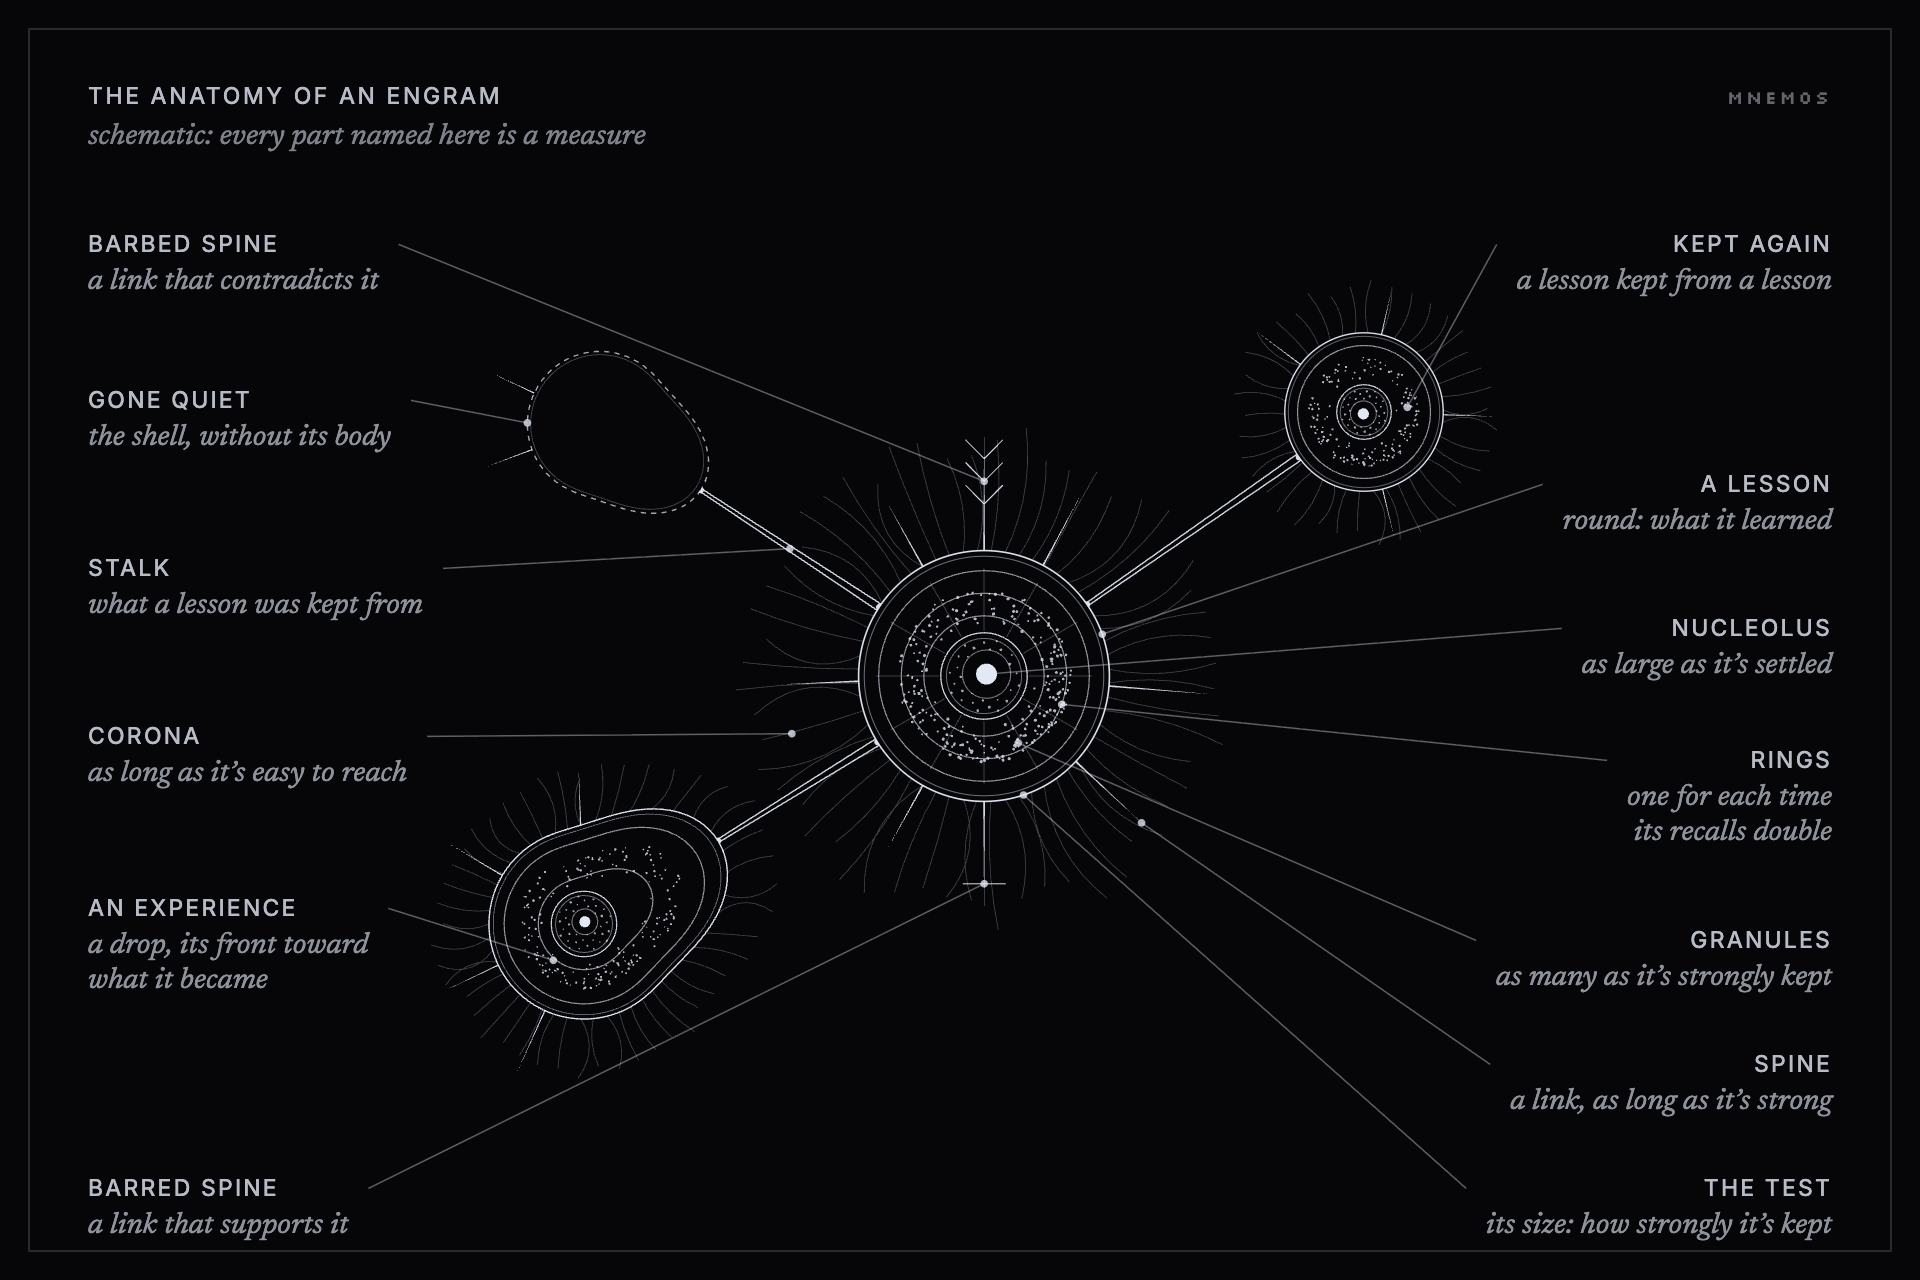
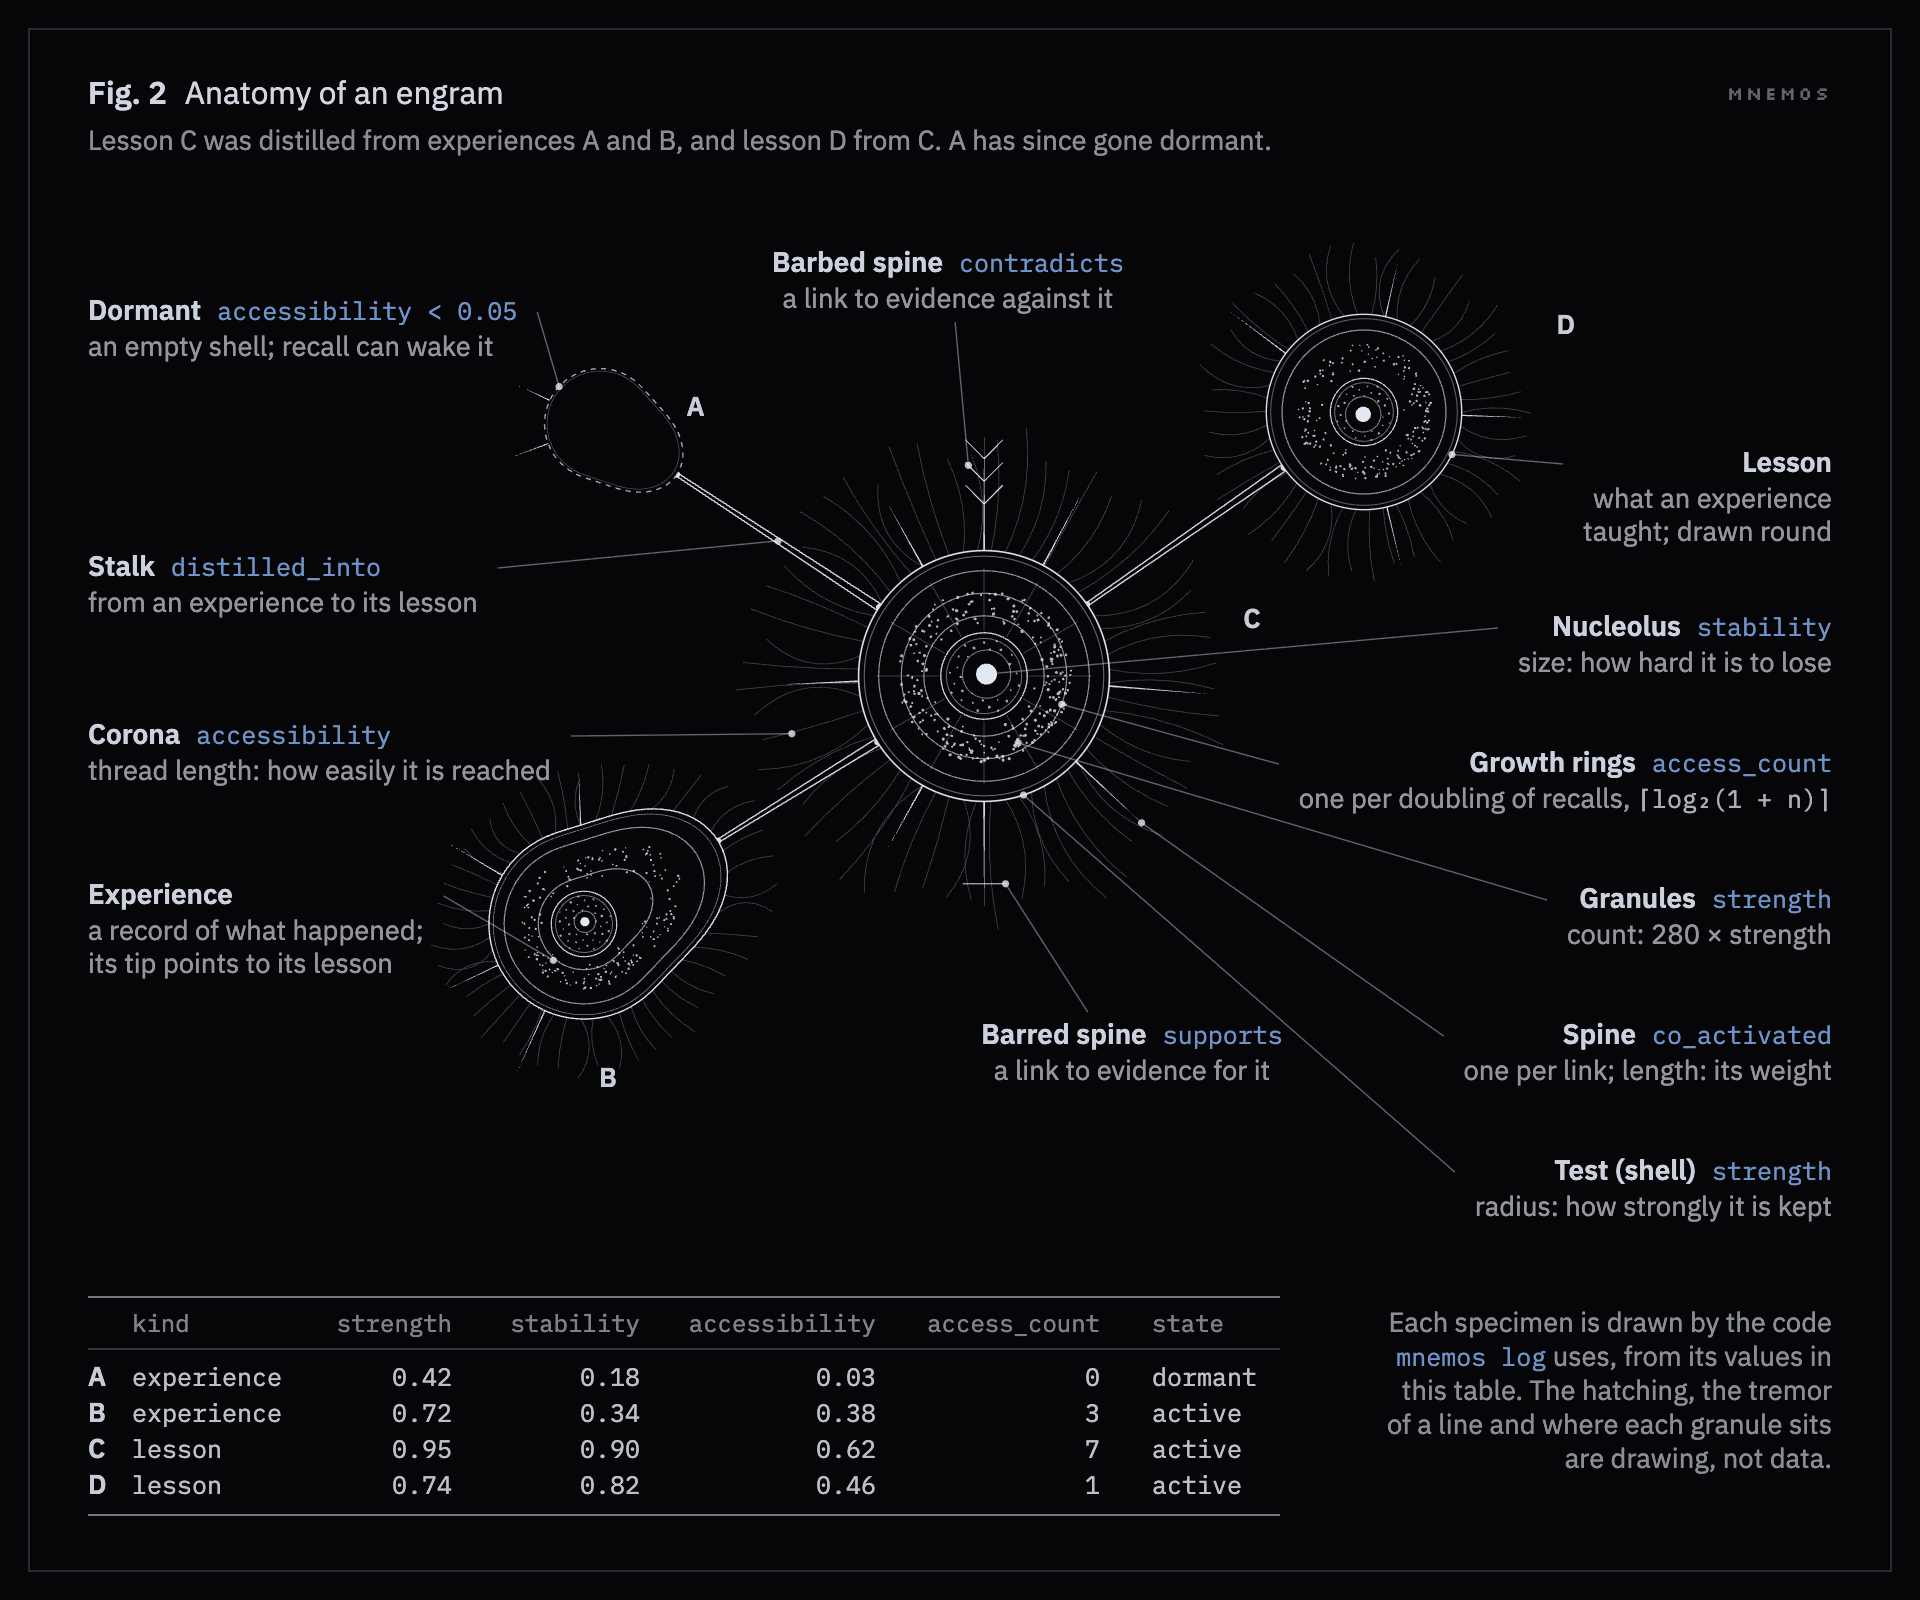
readme: pictures of how it works, set in IBM Plex
The README explains itself in figures now, each drawn from Mnemos's own code
and values, in light and dark:
- Fig. 1, a day with Mnemos: a timing diagram of the sessions, upkeep and the
  quiet hours, with one session enlarged.
- What you see: `mnemos log` on a sample memory made for the picture.
- Fig. 2, the anatomy of an engram, now technical: each part named with the
  field it measures, and the values in a table.
- Fig. 3, a memory's life: one memory over 50 days on Mnemos's own rules,
  fading, recalled, asked what it taught, and kept as a lesson.
- Fig. 4, where it runs: what stays on your machine, and what crosses, when.

The guide gains what an agent wakes with (a real wake, from the sample
memory, with its parts named) and a session as a sequence diagram.

diff --git a/README.md b/README.md
@@ -80,17 +80,45 @@ parts need macOS or Linux.
   agent's days, its notes to you with a place to answer, everything it holds,
   and its mind.
 
+<picture>
+  <source media="(prefers-color-scheme: dark)" srcset="https://raw.githubusercontent.com/Riley-Coyote/mnemos-mcp/main/docs/images/day-dark.png">
+  <img alt="Fig. 1, a day with Mnemos, drawn as a timing diagram. Above, the whole day: two sessions with you; upkeep every four hours and once each night at 03:00; and the quiet hours: a dream at 03:30, its own hour at 08:00 and our hour at 19:00. Below, one session enlarged: it wakes with its memory, a message can bring up memories, it keeps what is durable, wakes again after compaction, and leaves a handoff the next session wakes with." src="https://raw.githubusercontent.com/Riley-Coyote/mnemos-mcp/main/docs/images/day.png">
+</picture>
+
+## What you see
+
+![The page mnemos log opens, on a sample memory: the agent's day, with a note it left itself, a note for Alex, a memory it formed, and a dream at 3:30 am with the journal entry it wrote there; beside it, its notes for Alex, two beliefs it holds at 40 and 45 percent, and the question its memory is asking it.](https://raw.githubusercontent.com/Riley-Coyote/mnemos-mcp/main/docs/images/notebook.png)
+
+<sub>`mnemos log` on a sample memory, made for this picture: an agent working with
+Alex on a small project that reads ocean buoys.</sub>
+
 ## A memory, up close
 
 <picture>
   <source media="(prefers-color-scheme: dark)" srcset="https://raw.githubusercontent.com/Riley-Coyote/mnemos-mcp/main/docs/images/anatomy-dark.png">
-  <img alt="The anatomy of an engram, drawn as a natural-history plate: a round lesson kept from two experiences, one of them gone quiet, and kept again as a second lesson. Labels name each part and what it measures: the test (how strongly it's kept), granules, the nucleolus (how settled it is), rings (each doubling of its recalls), the corona (how easy it is to reach), spines (its links, barred where one supports it and barbed where one contradicts it), and stalks (what a lesson was kept from)." src="https://raw.githubusercontent.com/Riley-Coyote/mnemos-mcp/main/docs/images/anatomy.png">
+  <img alt="Fig. 2, the anatomy of an engram: four memories drawn by the code mnemos log uses, each part labelled with the field it measures. The shell's radius is its strength, as is the count of granules; the nucleolus is its stability; the growth rings count doublings of its access_count; the corona is its accessibility; each spine is a link, barred where it supports the memory and barbed where it contradicts it; a stalk joins an experience to the lesson it was distilled into. A table gives each memory's values." src="https://raw.githubusercontent.com/Riley-Coyote/mnemos-mcp/main/docs/images/anatomy.png">
 </picture>
 
-Open a memory on the page and its life is drawn the way a natural-history plate
-draws a one-celled animal. Its size, its rings, its threads and its spines are
-each something the memory measures, and the stalks show what each lesson was
-kept from.
+Every memory on the page is drawn from the values Mnemos keeps for it: the
+shell's radius is its `strength`, the nucleolus its `stability`, the corona its
+`accessibility` and the rings its `access_count`. Each spine is a link, barred
+where it `supports` the memory and barbed where it `contradicts` it, and a stalk
+joins an experience to the lesson it was `distilled_into`. The figure is drawn
+by the same code as the page.
+
+## A memory's life
+
+<picture>
+  <source media="(prefers-color-scheme: dark)" srcset="https://raw.githubusercontent.com/Riley-Coyote/mnemos-mcp/main/docs/images/life-dark.png">
+  <img alt="Fig. 3, the life of a memory over its first 50 days, run on Mnemos's own rules. On a log scale, its accessibility starts at 0.5, is held at 0.4 or more for three days, and fades between recalls; each recall lifts it back to 0.8, and it fades more slowly after. Below 0.15 the agent is asked what it taught, and its answer becomes a lesson, kept at 0.8 strength and stability, that fades far more slowly. The memory itself goes dormant below 0.05 and is archived below 0.01. Two small charts below show its strength and stability over the same days." src="https://raw.githubusercontent.com/Riley-Coyote/mnemos-mcp/main/docs/images/life.png">
+</picture>
+
+A memory fades unless it's used. Every four hours it gets a little harder to
+reach, more slowly the more settled it is and the more it's linked, and each
+recall brings it back and leaves it slower to fade. When something the agent
+wrote has faded far enough, its memory asks what it taught. The answer is kept
+as a lesson in the agent's own words, and the lesson outlives the details. The
+figure runs one memory through the rules Mnemos itself uses.
 
 ## What Mnemos is not
 
@@ -110,6 +138,11 @@ Local SQLite. No account, no API key, no service of its own. Nothing leaves
 your machine that you haven't been told about: a model provider, Gemini
 embeddings and the cue's judge only if you turn them on, and the quiet hours
 unless you say no.
+
+<picture>
+  <source media="(prefers-color-scheme: dark)" srcset="https://raw.githubusercontent.com/Riley-Coyote/mnemos-mcp/main/docs/images/map-dark.png">
+  <img alt="Fig. 4, where Mnemos runs, drawn as a data-flow diagram. Inside a dashed line marking your machine: you, your agent, Mnemos with its hooks, twelve tools and a local model, its memory in SQLite, the scheduler, and its page in your browser. Across the line: your agent's model, which receives whatever the agent reads and where the quiet hours run; and, only with your yes, a model provider, Gemini and the cue's judge, all reached through Mnemos." src="https://raw.githubusercontent.com/Riley-Coyote/mnemos-mcp/main/docs/images/map.png">
+</picture>
 
 The quiet hours run your own Claude Code on its own, on your Claude plan, so
 what the agent thinks over in them goes to Anthropic: its words for the hour,

diff --git a/docs/guide.md b/docs/guide.md
@@ -275,6 +275,11 @@ settings you already have, replaces its own entry rather than stacking on
 reinstall, and refuses to overwrite a settings file it cannot parse. After a
 Codex install, open `/hooks` and complete Codex's normal trust review.
 
+<picture>
+  <source media="(prefers-color-scheme: dark)" srcset="https://raw.githubusercontent.com/Riley-Coyote/mnemos-mcp/main/docs/images/wake-dark.png">
+  <img alt="Fig. 1, what an agent wakes with: a real wake, built by Mnemos from a sample memory and set as the document the agent reads, each part named beside it: the opening; what it believes; where it was, with its last handoff whole; what has been changing in it; how the person wants it to work; a question its memory is waiting on; what happened while it was away; and the ids its tools need, never shown to the person. Below, its length: 2,430 characters against a budget of 8,000, beside a 214-character handoff that is never cut." src="https://raw.githubusercontent.com/Riley-Coyote/mnemos-mcp/main/docs/images/wake.png">
+</picture>
+
 The hook is written to fail silent: if memory is empty, unreadable, or absent,
 it contributes nothing and the session starts normally. It never creates a
 database just because something read from it.
@@ -300,6 +305,11 @@ mnemos hooks install claude-code --no-prompt --write
 ```
 
 `--prompt`, which once asked for it, is still accepted and changes nothing.
+
+<picture>
+  <source media="(prefers-color-scheme: dark)" srcset="https://raw.githubusercontent.com/Riley-Coyote/mnemos-mcp/main/docs/images/session-dark.png">
+  <img alt="Fig. 2, a Claude Code session as a sequence diagram between you, the agent, Mnemos and its memory. At the start the hook brings the agent its wake. With each message, the cue looks up the ten nearest memories by words and meaning and returns up to three, or none, before the agent answers. When the agent chooses, it keeps something or recalls something, and what returns grows stronger. After compaction the wake is read back in, and its handoff is kept exactly as written." src="https://raw.githubusercontent.com/Riley-Coyote/mnemos-mcp/main/docs/images/session.png">
+</picture>
 
 With `--write`, the hooks install also schedules upkeep between sessions
 (`--no-upkeep` leaves it out) and, for Claude Code, asks once about quiet
